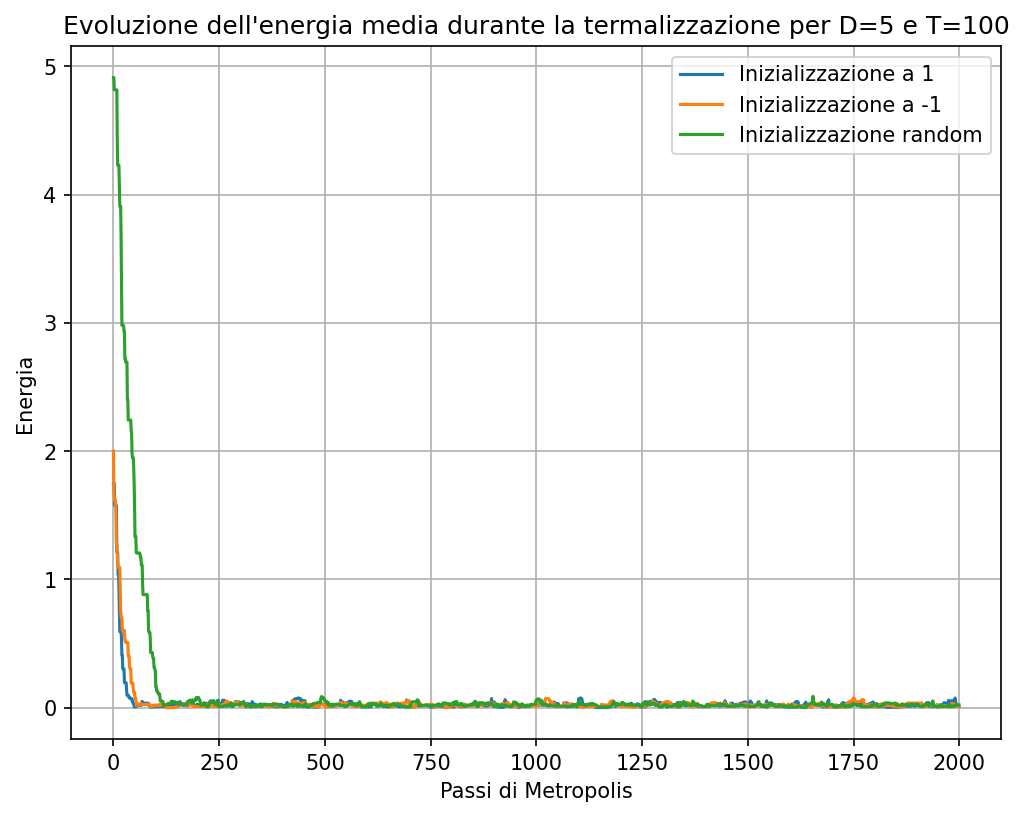
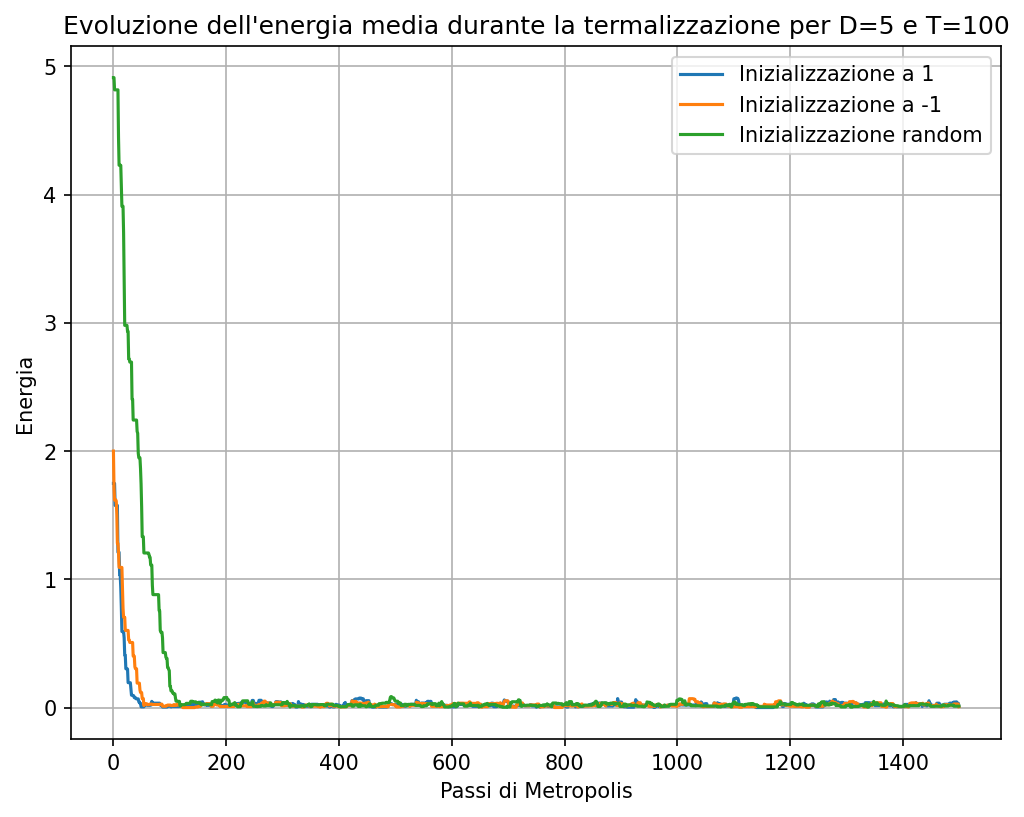
no tau_x, runned new simulazion, plot of x0.

diff --git a/source/observable.py b/source/observable.py
@@ -12,26 +12,39 @@ def make_potential(a: float = 1.0, b: float = 1.0) -> Callable[[jax.Array], jax.
  
     return V
 
-def find_plateau(R_values, threshold=0.05, obs="_"):
-    R = list(R_values)
+def find_plateau(R, window=3, tolerance=0.2, obs="_"):
+    window = int(window)
+    R = np.array(R, dtype=float)
 
-    for k in range(2, len(R)):
-        rel1 = abs(R[k]   - R[k-1]) / abs(R[k-1])
-        rel2 = abs(R[k-1] - R[k-2]) / abs(R[k-2])
+    # we use log because R can grow esponenzialmente, and we want to detect plateaus in a more stable way
+    logR = np.log(R)
 
-        if rel1 < threshold and rel2 < threshold:
+    for k in range(window, len(R)):
+
+        # 1. Window of previous values in log scale
+        segment = logR[k-window:k]
+
+        # 2. local mean in log scale
+        mean = np.mean(segment)
+
+        # 3. STD of log values in the window
+        std = np.std(segment)
+
+        # 4. Check of plateau:
+        #    Last values should be close to the local mean, within tolerance * mean (in log scale)
+        if abs(logR[k] - mean) < tolerance * abs(mean) and std < tolerance * abs(mean):
+            # we want the linear value of R, not the log
             R_plateau = R[k]
-            tau = 0.5 * (R_plateau - 1.0)
+            tau = 0.5 * (R_plateau - 1)
             return R_plateau, tau
 
-    # fallback
-    print(f"_Warning: no plateau found for {obs}, using last R")
+    # --- Fall-back: plateau not found ---
+    print(f"WARNING: plateau not found for {obs}, using last value.")
     R_plateau = R[-1]
-    tau = 0.5 * (R_plateau - 1.0)
+    tau = 0.5 * (R_plateau - 1)
     return R_plateau, tau
 
-
-def blocking_analysis(data, threshold=0.01, obs="_"):
+def blocking_analysis(data, window, threshold, obs="_"):
     x = jnp.array(data, dtype=jnp.float32)
 
     # varianza completa 
@@ -41,7 +54,7 @@ def blocking_analysis(data, threshold=0.01, obs="_"):
     cur = x.copy()
     m = 1
 
-    # blocling decreasing the size by 1 at each iteration, until at least 2 blocks remain
+    # blocling diminuendo di 1 la dimensione ad ogni iterazione, fino a quando non rimangono almeno 2 blocchi
     while cur.shape[0] >= 2:
 
         if cur.shape[0] % 2 == 1:
@@ -56,46 +69,24 @@ def blocking_analysis(data, threshold=0.01, obs="_"):
         # blocking → media di coppie
         cur = 0.5 * (cur[0::2] + cur[1::2])
         m *= 2
-    R_plateau, tau = find_plateau(R_list, threshold, obs)
+    R_plateau, tau = find_plateau(R_list, threshold, window, obs)
     M = data.shape[0]
     sigma_mean = jnp.sqrt(R_plateau * varX / M)
     return sigma_mean, tau
-   
 
-def autocorrelation_time(data):
-    # no use of bloccking analysis, beacuse no plateau was found for tau_x
-    data = np.asarray(data, dtype=np.float64)
-    N = len(data)
-    data_centered = data - np.mean(data)
-    # FFT-based autocorrelation
-    fft = np.fft.rfft(data_centered, n=2*N)
-    power = fft * np.conj(fft)
-    # the correlation funztion is: chi (k) = <x_i x_{i+k}> - <x_i> <x_{i+k}>
-    chi = np.fft.irfft(power)[:N].real / (N - np.arange(N))
-    if chi[0] == 0:
-        return 0.0
-    chi /= chi[0]
-    # tau = sum (1 - k/M) chi(k) / chi(0)
-    tau = np.sum((1 - np.arange(N) / N) * chi)
-    return tau
-
-def append_observables(results,D: int,T,trajectory,acceptance_rate,V: Callable,threshold: float = 0.01, kb: float = 8.617333262145e-5):
+def append_observables(results,D: int,T,trajectory,acceptance_rate,V: Callable,tolerance: float = 0.01, window: int = 5, kb: float = 8.617333262145e-5):
     energies = np.array(jax.vmap(lambda x: V(x))(trajectory))
     energies2 = energies**2
 
     # blocking for E
     E_mean =np.mean(energies)
-    E_mean_err, _ = blocking_analysis(energies, threshold, obs="E_mean")
+    E_mean_err, _ = blocking_analysis(energies, tolerance, window, obs="E_mean")
 
     # blocking for Cv
-    E2_mean_err, _ = blocking_analysis(energies2, threshold, obs="Cv")
+    E2_mean_err, _ = blocking_analysis(energies2, tolerance, window, obs="Cv",)
     Cv = (np.mean(energies2) - E_mean**2) / (kb * T**2)
     # error propagation for Cv = (E2_mean - E_mean^2) / (k_b * T^2)
     Cv_err = (E2_mean_err + 2 * E_mean * E_mean_err) / (kb * T**2)
-
-    #tau_x
-    x = np.array(trajectory[:, 0])
-    tau_x = autocorrelation_time(x)
 
     results[D]["T"].append(T)
     results[D]["E_mean"].append(E_mean)
@@ -103,6 +94,6 @@ def append_observables(results,D: int,T,trajectory,acceptance_rate,V: Callable,t
     results[D]["Cv"].append(Cv)
     results[D]["Cv_err"].append(Cv_err)
     results[D]["acceptance"].append(acceptance_rate)
-    results[D]["tau_x"].append(tau_x)
     results[D]["trajectory_x"].append(trajectory[:, 0])
+
     

diff --git a/source/main.py b/source/main.py
@@ -8,20 +8,21 @@ from tqdm import tqdm
 
 def main():
     dimensions   = [1, 2, 3, 5]
-    # temperatures (K) from 10K to 1000K, one T evry 10K
-    temperatures = jnp.linspace(5, 1005, 100)
+    # temperatures (K) from 5 to 1005 (one T every 10K) K is Kelvin
+    temperatures = jnp.arange(5, 1005, 10)
     # k_b in eV/K
     kb = 8.617333262145e-5
     #MCMC parameters
-    n_thermalization = 2000
-    n_steps = 103000
+    n_thermalization = 1500
+    n_steps = 150000
     step_size = 0.1
     # potential parameters
     a = 0.1
     b = 1.0
     V = obs.make_potential(a, b)
-    #blocking threshold
-    threshold = 0.2
+    #blocking parameters
+    tollerance = 0.10 # 11% of the mean value of the observable, in log scale
+    window = 3 # number of consecutive values to consider for the plateau detection, in log scale
 
     #thermalization example for 3 configurations
     D_demo, T_demo = 5, 100
@@ -53,32 +54,37 @@ def main():
             "Cv": [],
             "Cv_err": [],
             "acceptance": [],
-            "tau_x": [],
             "trajectory_x": []
         }
 
-        gen_config = metro.make_config_generator(D, "ones")
+        gen_config = metro.make_config_generator(D, "normal")
+        run_first_therm = metro.make_simulation(D, n_thermalization*10, V, kb)
         run_therm  = metro.make_simulation(D, n_thermalization, V, kb)
         run_prod   = metro.make_simulation(D, n_steps, V, kb)
 
         x, key = gen_config(key)
         for T in tqdm(temperatures, desc=f"D={D}", unit="T"):
-            
             # thermalization 
-            _, _, key , x = run_therm(key, T, step_size, x)
+            if T == temperatures[0]:
+                _, _, key , x = run_first_therm(key, T, step_size, x) # thermalization for the first temperature, starting from a fixed configuration (normal distribution)
+            _, _, key , x = run_therm(key, T, step_size, x) # thermalization for the other temperatures, starting from the last configuration of the previous thermalization
+
             # x is the last configuration of the thermalization, used as initial configuration for the production
             # production
             trajectory, acceptance_rate, key , x = run_prod(key, T, step_size, x)
             # x is the last configuration of the trajectory, used as initial configuration for the next temperature
 
             # append observables to results
-            obs.append_observables(results, D, T, trajectory, acceptance_rate, V, threshold, kb)
+            obs.append_observables(results, D, T, trajectory, acceptance_rate, V, tollerance,window, kb)
 
     # plot results
     plot.plot_obs_D_T(results, dimensions, "E_mean", error=True)
     plot.plot_obs_D_T(results, dimensions, "Cv", error=True)
-    plot.plot_obs_D_T(results, dimensions, "tau_x")
     plot.plot_obs_D_T(results, dimensions, "acceptance")
+
+    Ts =[temperatures[0],temperatures[4], temperatures[6], temperatures[15], temperatures[55], temperatures[-1]]
+    plot.plot_trajectory_x_relative_freq(results, 2, Ts)
+    plot.plot_trajectory_x_relative_freq(results, 5, Ts)
 
 if __name__ == "__main__":
     main()

diff --git a/source/plot.py b/source/plot.py
@@ -1,11 +1,11 @@
 import matplotlib.pyplot as plt
+import numpy as np
 import os
 import jax
 import jax.numpy as jnp
 from typing import Callable
 
 REPORT_DIR = os.path.join(os.path.dirname(__file__), "..", "report")
-
 
 def _ensure_report_dir():
     os.makedirs(REPORT_DIR, exist_ok=True)
@@ -73,3 +73,23 @@ def plot_obs_D_T(results, dimensions, observable, error=None):
         plt.savefig(filepath, dpi=150, bbox_inches="tight")
         print(f"Grafico salvato in: {filepath}")
         plt.close()
+
+def plot_trajectory_x_relative_freq(results, D, Ts):
+    #subplot of the histogram of the relative frequency of x[0] for different temperatures, for a specific D
+    _ensure_report_dir()
+    plt.figure(figsize=(12, 8))
+    for i, T in enumerate(Ts):
+        plt.subplot(2, 3, i+1)
+        trajectory_x = results[D]["trajectory_x"][results[D]["T"].index(T)]
+        plt.hist(trajectory_x, bins=50, 
+         weights=np.ones(len(trajectory_x)) / len(trajectory_x))
+        plt.xlabel("x[0]")
+        plt.ylabel("Frequenza relativa")
+        plt.title(f"D={D}, T={T}")
+        plt.grid()
+    plt.tight_layout()
+    filename = f"trajectory_x_relative_freq_D{D}.png"
+    filepath = os.path.join(REPORT_DIR, filename)
+    plt.savefig(filepath, dpi=150, bbox_inches="tight")
+    print(f"Grafico salvato in: {filepath}")
+    plt.close()
